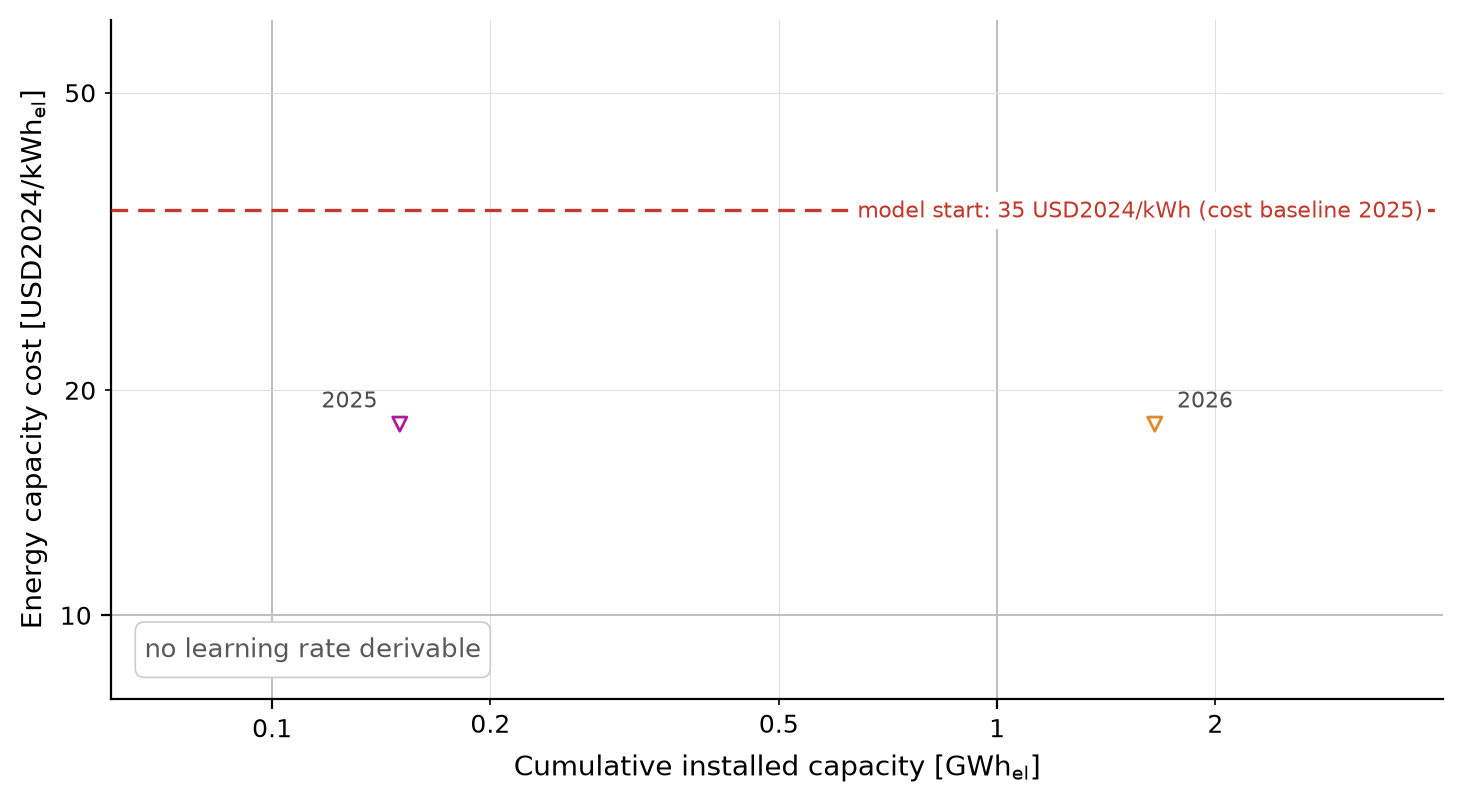
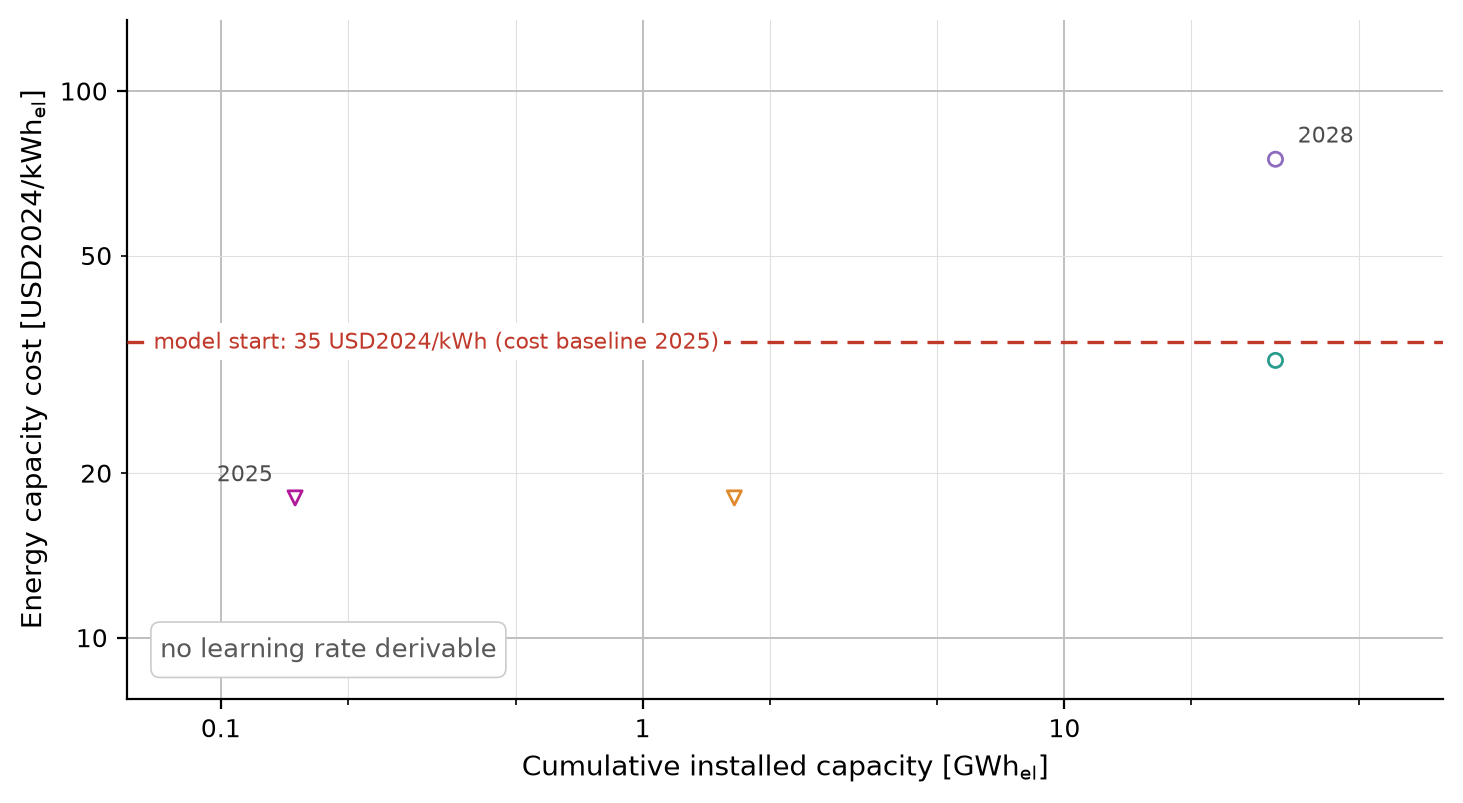
adjusted assumptions

diff --git a/misc-quarter1/technology-costs/figures/learning/iron-air_sources.tex b/misc-quarter1/technology-costs/figures/learning/iron-air_sources.tex
@@ -1,3 +1,5 @@
 % generated by plot_learning.py; numbers match the figure legend
 \href{https://formenergy.com/}{[1]}~Form Energy (2023), modelling recommendations\quad
-\href{https://formenergy.com/}{[2]}~Form Energy (2023), vendor target
+\href{https://formenergy.com/}{[2]}~Form Energy (2023), vendor target\quad
+\href{https://techcrunch.com/2026/02/26/google-paid-startup-form-energy-1b-for-its-massive-100-hour-battery/}{[3]}~The Information via TechCrunch (2026)\quad
+\href{https://www.ess-news.com/2026/04/28/us-medium-duration-storage-endures-woes-while-forms-long-duration-grows-and-lithium-overflows/}{[4]}~Weaver, ESS News (2026)

diff --git a/misc-quarter1/technology-costs/README.md b/misc-quarter1/technology-costs/README.md
@@ -535,15 +535,33 @@ not openly downloadable and was not transcribed.
 
 <img src="figures/learning/iron-air.png" alt="Iron-air cost target" width="560">
 
-Sources in the legend: [1] [Form Energy (2023), modelling recommendations](https://formenergy.com/) · [2] [Form Energy (2023), vendor target](https://formenergy.com/)
+Sources in the legend: [1] [Form Energy (2023), modelling recommendations](https://formenergy.com/) · [2] [Form Energy (2023), vendor target](https://formenergy.com/) · [3] [The Information via TechCrunch (2026)](https://techcrunch.com/2026/02/26/google-paid-startup-form-energy-1b-for-its-massive-100-hour-battery/) · [4] [Weaver, ESS News (2026)](https://www.ess-news.com/2026/04/28/us-medium-duration-storage-endures-woes-while-forms-long-duration-grows-and-lithium-overflows/)
 
-*Sample.* No series. The two points are the midpoint of Form Energy's stated
-all-in installed cost target, 15–20 USD/kWh at 100 h, which its 2023 modelling
-recommendations (Table 1) give as achievable at gigawatt manufacturing scale
-around 2030, placed at the first commercial projects (Great River Energy
-Cambridge 1.5 MW / 150 MWh, 2025; Georgia Power 15 MW / 1,500 MWh, 2026). Not
-an observed cost; no Form project has a disclosed price, and Form says its
-first projects will cost more than the table. No legend is drawn.
+*Sample.* No series, two kinds of point. The two low points are the midpoint
+of Form Energy's stated all-in installed cost target, 15–20 USD/kWh at 100 h,
+which its 2023 modelling recommendations (Table 1) give as achievable at
+gigawatt manufacturing scale around 2030, placed at the first commercial
+projects (Great River Energy Cambridge 1.5 MW / 150 MWh, 2025; Georgia Power
+15 MW / 1,500 MWh, 2026); not an observed cost, and Form says its first
+projects will cost more. The two high points are the first disclosed price:
+Google pays about 1 bn USD for Form's 300 MW / 30 GWh system at Xcel's Pine
+Island site in Minnesota (The Information via TechCrunch, 26 Feb 2026; not
+confirmed by Form, Google or Xcel), 33 USD/kWh after the 30 % ITC, the 10 %
+domestic-content adder and bonus depreciation, and about 77 USD/kWh
+(2.3 bn USD) before them in Weaver's reconstruction (ESS News, 28 Apr 2026),
+who adds a further ~45 USD/kWh 45X manufacturing credit flowing to Form. Both
+are drawn at 2028, the first delivery year, at 31.65 GWh cumulative (the two
+earlier projects plus this one; the Maine 8.5 GWh and two 1 GWh Xcel projects
+in between are omitted) and in USD2025, the 2026 CPI not being available.
+Not fitted: a forward price for a 60-fold scale-up, from press reporting. Not
+plotted: the California Energy Commission's Mendocino pilot, cut in May 2025
+to 1.5 MW / 150 MWh at 25 m USD CEC funding plus 25 m USD Form match, i.e.
+333 USD/kWh for a demonstration including interconnection and construction
+(72 USD/kWh in the original 5 MW / 500 MWh, 36 m USD budget), and the
+Lincoln, Maine 85 MW / 8.5 GWh project, whose 147 m USD DOE grant
+(17 USD/kWh) is the only disclosed figure. Form's CEC final report
+(CEC-500-2025-045, Nov 2025) marks the measured round-trip efficiency
+proprietary. No legend is drawn.
 
 *Model start (red dashed line).* 35 USD2024/kWh, technology-data v0.15.0. The
 catalogue takes Form's 15–20 USD/kWh as its 2030 value (20 EUR2023/kWh) and
